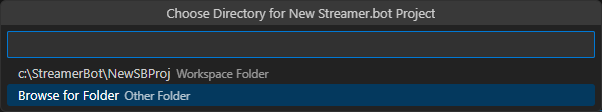
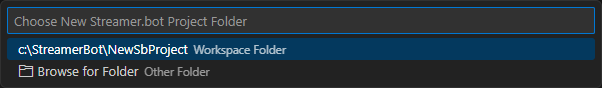
update readme gifs and strings

diff --git a/src/extension.ts b/src/extension.ts
@@ -68,7 +68,7 @@ export function activate(context: vscode.ExtensionContext) {
 
             const directoryPickChoice = await vscode.window.showQuickPick(
                 quickPickList,
-                {title: "Choose Directory for New Streamer.bot Project" }
+                {placeHolder: 'Select New Streamer.bot Project Folder' }
             );
             if (!directoryPickChoice){
                 console.log("project creation cancelled by user at quickpick project directory.");
@@ -187,7 +187,6 @@ export function activate(context: vscode.ExtensionContext) {
             validateInput: userText => {return validateNewFile(newFileDir, userText);},
         });
         if (fileName) {
-            console.log(fileName);
             const newFileUri = vscode.Uri.file(path.posix.join(rootPath, getNewCsFileRelativePath(newFileDir, fileName)));
             try {
                 const fileStats = await vscode.workspace.fs.stat(newFileUri);
@@ -359,7 +358,7 @@ async function getSbDirectoryQuickPick(sbStartMenuPathPromise: Promise<string | 
         const sbDirQuickPickSelection = await vscode.window.showQuickPick([
             ...sbDirQuickpickOptions,
             {label: "$(folder) Browse for Folder", description: "Other Folder"}
-        ],{canPickMany: false, placeHolder: "Select Streamer.bot Location"});
+        ],{canPickMany: false, placeHolder: "Select Current Streamer.bot Location"});
         if (!sbDirQuickPickSelection){
             console.log("project creation cancelled by user at sb quickpick");
             return;
@@ -393,7 +392,7 @@ function getSbDirectoryPathFromExePath(sbExePath: string): string | undefined{
 }
 
 async function promptUserForSbLocation(): Promise<string | undefined>{
-    const fileHandle = await vscode.window.showOpenDialog({ title: 'Select Streamer.bot location', filters: { 'Streamer.bot': ['exe'] }, canSelectMany: false });
+    const fileHandle = await vscode.window.showOpenDialog({ title: 'Select Current Streamer.bot Location', filters: { 'Streamer.bot': ['exe'] }, canSelectMany: false });
     if (fileHandle) {
         const sbExePath = fileHandle[0].fsPath;
         const sbDirectory = getSbDirectoryPathFromExePath(sbExePath);

diff --git a/README.md b/README.md
@@ -24,7 +24,7 @@ The `New Streamer.bot C# Project` command lets you easily create a new Streamer.
 ![Animation of creating a new Streamer.bot C# project by browsing for Streamer.bot's installation](media/readme/command_new_sb_proj_example.gif)
 
 ### New File Creation with Template
-Quick creation of new C# files with a starting template when inside a Streamer.bot project directory with the `New Streamer.bot C# File` command  
+Quick creation of new C# files with a starting template when inside a Streamer.bot project directory with the `New Streamer.bot C# File` command, also accessible via `Create: New File...` or the context menu in the Explorer View
 ![Animation of creating a new Streamer.bot file via the New Streamer.bot C# File command](media/readme/new_file_example.gif)
 
 ### Copy Full File Contents into Streamer.bot
